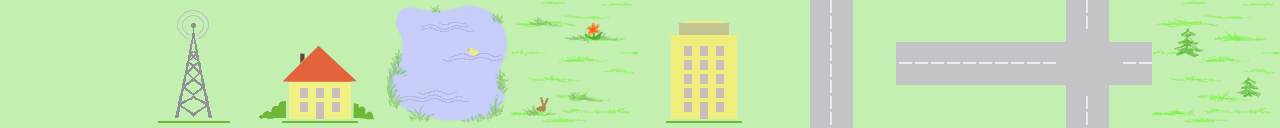
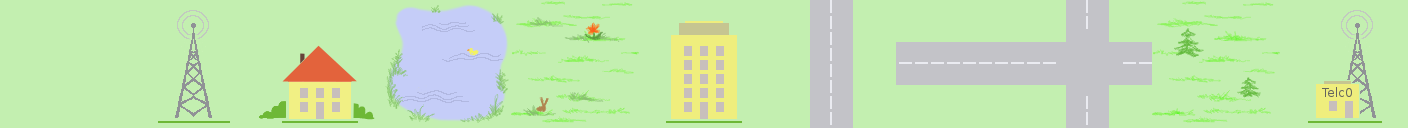
use base tower image for initial tower

diff --git a/src/map.js b/src/map.js
@@ -20,7 +20,7 @@ Map.prototype.generateMap = function () {
     // spawn tower
     let x = getRandomInt(0, this.width);
     let y = getRandomInt(0, this.height);
-    this.buildTower(x, y);
+    this.buildBaseTower(x, y);
 
     // spawn houses
     for (let i = 0; i < this.houseCount; i++) {
@@ -54,7 +54,6 @@ Map.prototype.generateMap = function () {
 
 };
 
-
 Map.prototype.getTowerCount = function () {
     let count = 0;
     for (let y = 0; y < this.height; y++) {
@@ -80,6 +79,10 @@ Map.prototype.buildTower = function (x, y) {
     this.map[y][x] = new TowerCell();
 };
 
+Map.prototype.buildBaseTower = function (x, y) {
+    this.map[y][x] = new BaseTowerCell();
+};
+
 Map.prototype.buildHouse = function (x, y) {
     this.map[y][x] = new HouseCell();
 };
@@ -87,40 +90,6 @@ Map.prototype.buildHouse = function (x, y) {
 Map.prototype.buildBlocked = function (x, y) {
     this.map[y][x] = new BlockCell();
 };
-
-
-function Cell() {
-    this.empty = [0, 4, 9];
-    this.tower = [1];
-    this.house = [2];
-    this.blocked = [3];
-    this.covered = false;
-
-    this.type = null;
-
-    this.getTilemapId = function () {
-        return this.type;
-    };
-
-    this.isEmpty = function () {
-        return this.empty.includes(this.type);
-    };
-
-    this.isTower = function () {
-        return this.tower.includes(this.type); 
-    };
-
-    this.isHouse = function () {
-        return this.house.includes(this.type);
-    };
-
-    this.isBlocked = function () {
-        return this.blocked.includes(this.type);
-    };
-
-    this.getNeighbors = function () {
-    }
-}
 
 Map.prototype.getMapAsCsv = function () {
     let csv = "";
@@ -152,6 +121,39 @@ Map.prototype.coverAt = function (x, y) {
 };
 
 
+function Cell() {
+    this.empty = [0, 4, 9];
+    this.tower = [1, 10];
+    this.house = [2];
+    this.blocked = [3];
+    this.covered = false;
+
+    this.type = null;
+
+    this.getTilemapId = function () {
+        return this.type;
+    };
+
+    this.isEmpty = function () {
+        return this.empty.includes(this.type);
+    };
+
+    this.isTower = function () {
+        return this.tower.includes(this.type); 
+    };
+
+    this.isHouse = function () {
+        return this.house.includes(this.type);
+    };
+
+    this.isBlocked = function () {
+        return this.blocked.includes(this.type);
+    };
+
+    this.getNeighbors = function () {
+    }
+}
+
 function EmptyCell() {
     Cell.call(this);
 
@@ -171,6 +173,12 @@ function TowerCell() {
     Cell.call(this);
 
     this.type = this.tower[0];
+}
+
+function BaseTowerCell() {
+    TowerCell.call(this);
+
+    this.type = this.tower[1];
 }
 
 function BlockCell() {
